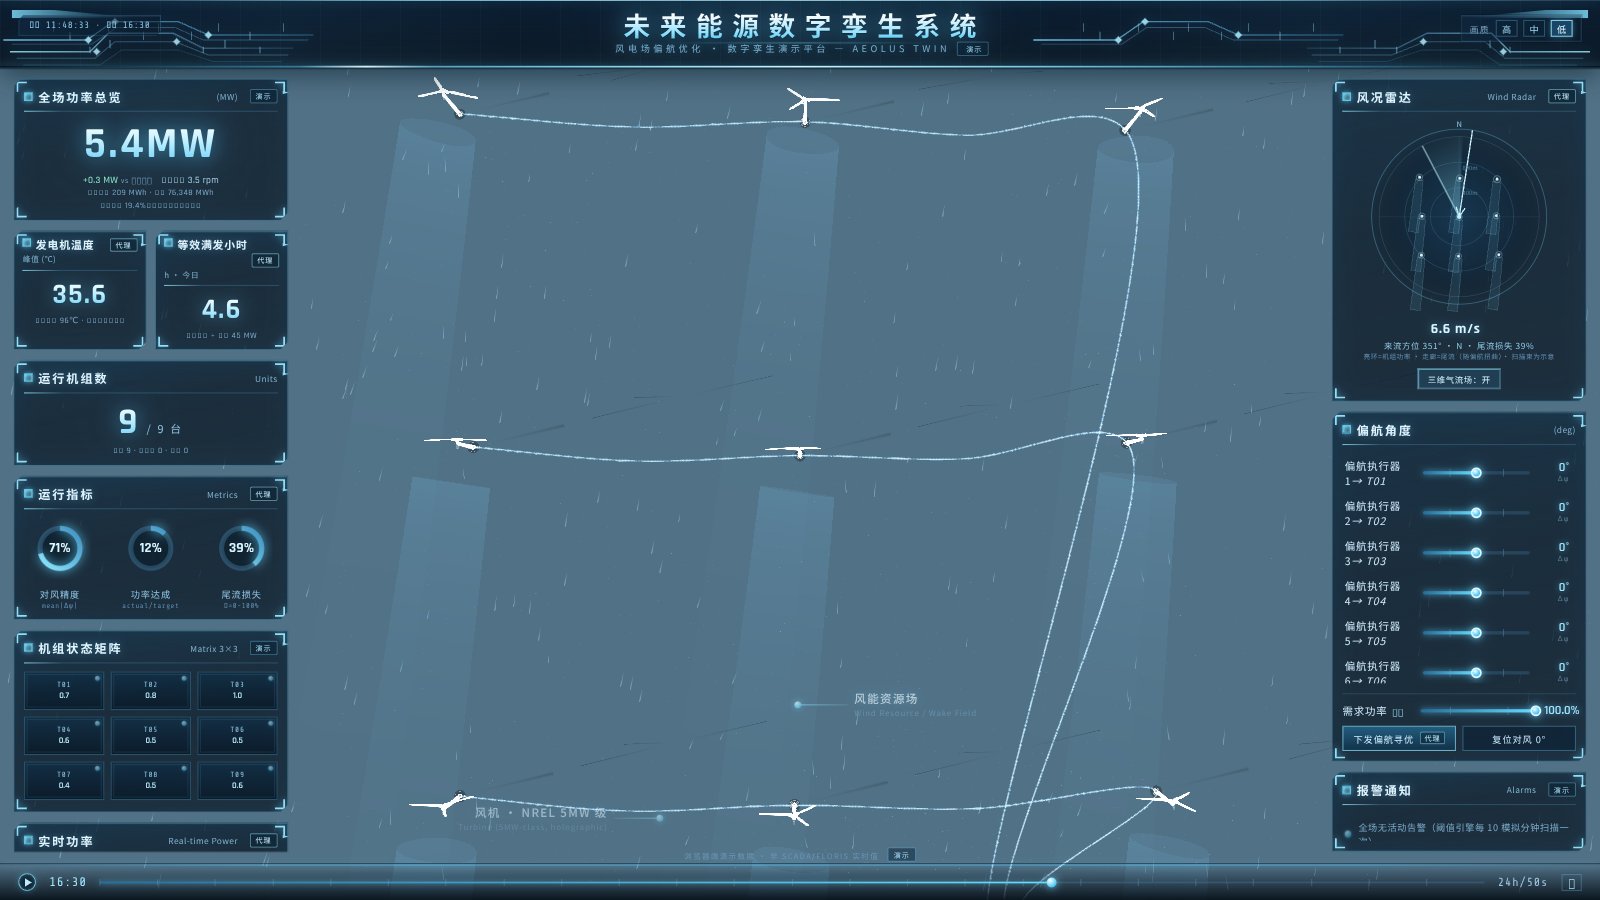
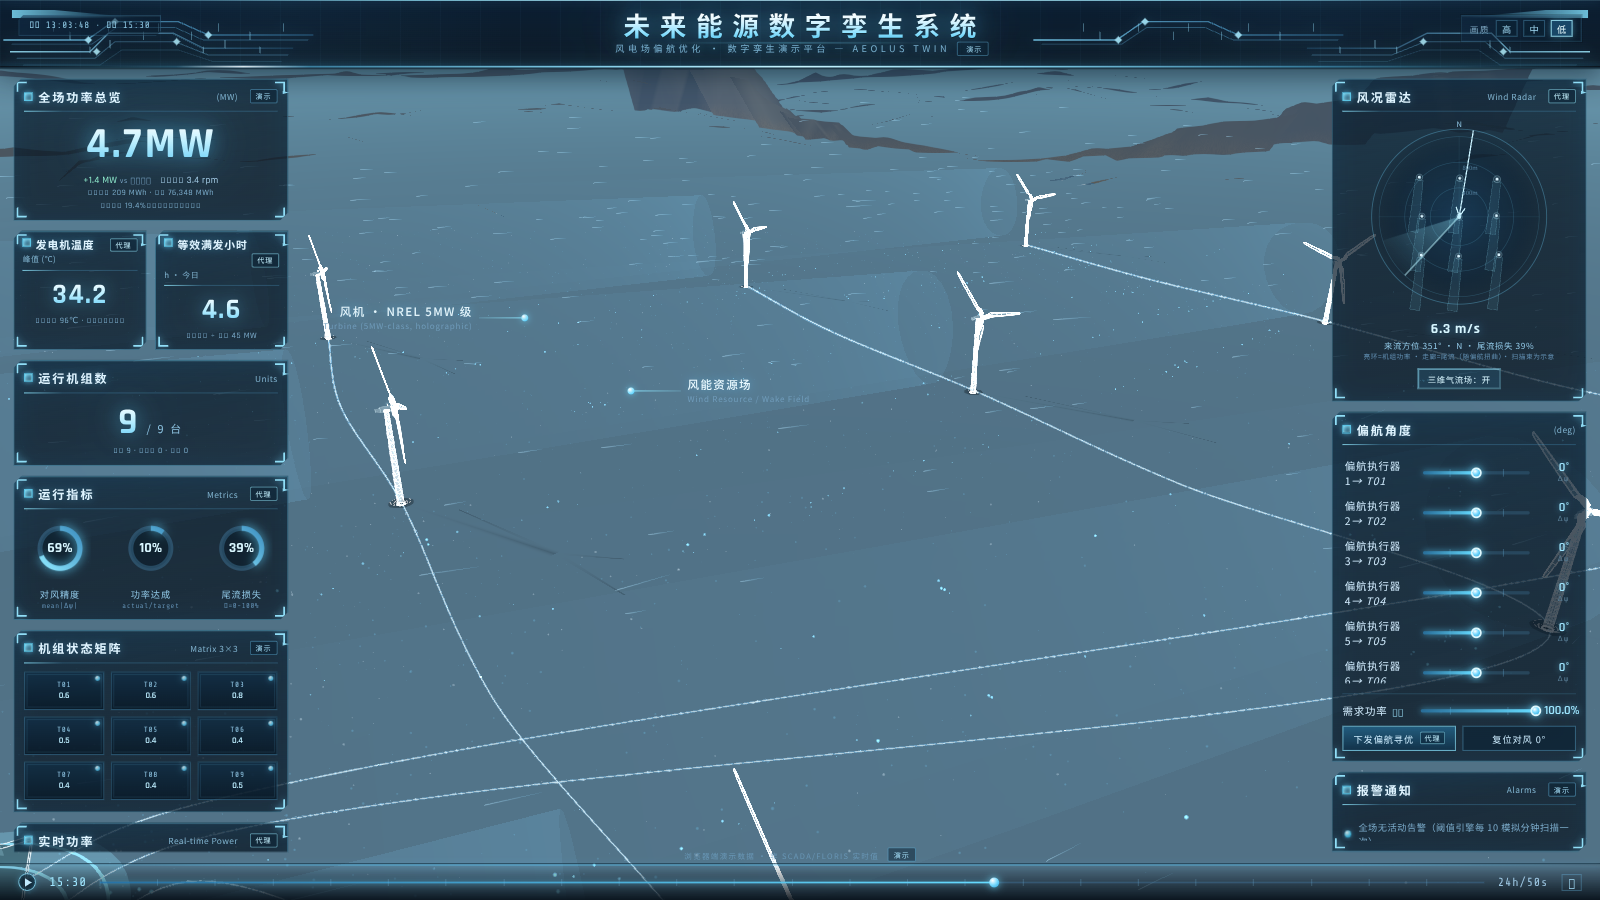
fix(shadow): 塔影带改完整物理投影 — 叶片影不再离机 400m 成孤儿暗斑
实机验收截图暴露：塔影带仍按 round31 的 ×0.7+175m 截断，而叶片影锚点
是轮毂真实投影（日出低角下离机 400~600m），导致 3 条叶片射线浮在
431m 外海面、与风机完全脱节。

修复：塔影带长度改为完整物理投影（塔底→轮毂投影点，上限 640m），
远端与叶片影锚点严丝合缝；叶片影上限同步提至 440m、透明度 0.45→0.42。

验证（无头场景探针，9 机×3 时刻）：
  t=6  日出  塔影 606m  塔影远端↔叶片锚点间隙 2m（修复前 431m）
  t=11.5 正午 塔影  65m  间隙 2m
  t=15.5 午后 塔影 186m  间隙 2m
build 0 错 / lint 0/0 / selftest 37/37。

diff --git a/twin/src/scene/HoloTurbine.tsx b/twin/src/scene/HoloTurbine.tsx
@@ -395,7 +395,10 @@ const _shadowBasis = new THREE.Matrix4()
 //  a) 叶片影改「根部宽→尖端窄」的梯形面（真实叶片弦向渐缩），配独立
 //     硬核纹理 bladeShadowTex（中心 55% 全 alpha，仅边缘窄羽化）→ 轮廓清晰；
 //  b) orientShadow 改 cross(dir, up) → 右手系，长轴严格沿投影方向、宽轴水平；
-//  c) 影带长度按 t=(P.y-g)/sun.y 完整投影（不再 0.7 截断），上限 175m 与塔影一致。
+//  c) 影带长度按 t=(P.y-g)/sun.y 完整投影（不再 0.7 截断），上限 440m；
+//  d) 【关键】塔影带也改完整物理投影（塔底 → 轮毂投影点，上限 640m），
+//     使塔影带远端与叶片影锚点（轮毂投影）严丝合缝——旧版塔影 175m 截断、
+//     叶片影锚在 400m+ 外，日出低角时叶片影成为离机 400m 的「孤儿暗斑」。
 // ============================================================================
 const ENABLE_BLADE_SHADOW = true
 
@@ -654,10 +657,12 @@ export default function HoloTurbine({ idx, x, z, y, servo }: {
         shadowDiscMat.current.opacity = dayF * 0.6
         shadowDisc.current.scale.set(14, 14, 1)
       }
-      // 塔影带：塔顶(轮毂)世界投影 → 沿 -sun 方向
+      // 塔影带：塔顶(轮毂)世界投影 → 沿 -sun 方向。
+      // 长度 = 完整物理投影（塔底 → 轮毂投影点，上限 640m），
+      // 远端与叶片影锚点（同一轮毂投影点）无缝衔接，不再 0.7 截断。
       const tH = (hub.y - groundY) / sun.y
       const towerDx = -tH * sun.x, towerDz = -tH * sun.z
-      const towerLen = Math.min(Math.hypot(towerDx, towerDz) * 0.7, 175)
+      const towerLen = Math.min(Math.hypot(towerDx, towerDz), 640)
       if (shadowTower.current && shadowTowerMat.current) {
         shadowTower.current.visible = true
         shadowTower.current.position.set(0, 0.7, 0)
@@ -666,7 +671,7 @@ export default function HoloTurbine({ idx, x, z, y, servo }: {
         const sinEl = Math.max(0, Math.min(1, sun.y))
         shadowTowerMat.current.opacity = dayF * (0.62 + (1 - sinEl) * 0.4) * 0.38
       }
-      // 叶片投影：3 条射线从轮毂投影指向各叶尖投影（完整投影，上限 175m 与塔影一致）
+      // 叶片投影：3 条射线从轮毂投影指向各叶尖投影（完整投影，上限 440m 与塔影衔接）
       if (ENABLE_BLADE_SHADOW) {
         projectToGroundY(hub, sun, groundY, _sProj)
         for (let i = 0; i < 3; i++) {
@@ -680,12 +685,12 @@ export default function HoloTurbine({ idx, x, z, y, servo }: {
             mesh.visible = true
             mesh.position.set(_sProj.x - x, 0.6 + i * 0.02, _sProj.z - z)
             orientShadow(mesh, dx, dz)
-            mesh.scale.set(1, Math.min(blen, 175), 1)
+            mesh.scale.set(1, Math.min(blen, 440), 1)
           }
           const mat = shadowBladeMats[i].current
           if (mat) {
             const sinEl = Math.max(0, Math.min(1, sun.y))
-            mat.opacity = dayF * (0.62 + (1 - sinEl) * 0.4) * 0.45
+            mat.opacity = dayF * (0.62 + (1 - sinEl) * 0.4) * 0.42
           }
         }
       } else {

diff --git a/docs/research/round33_叶片投影修复.md b/docs/research/round33_叶片投影修复.md
@@ -33,10 +33,29 @@ round31 把接地投影并入风机自身（真实转子矩阵取叶尖世界坐
 3. **`orientShadow` 改右手系**：`_shadowRight = cross(dir, up)`（原 `cross(up, dir)`），
    `right×dir=+up`。
 4. **影带长度完整投影**：不再按 0.7 系数截断，按 `t=(P.y-g)/sun.y` 完整投影，
-   上限 175m 与塔影一致。
+   上限 440m（低角太阳下上叶影可至 ~430m，纹理沿长轴自然淡出）。
 5. **重新启用** `ENABLE_BLADE_SHADOW = true`。
 6. 每帧用预分配向量 `_tipWorld`，去掉旧代码 `getWorldPosition(new THREE.Vector3())`
    的每帧 ×3×9 次 GC 分配。
+
+### 3.1 第二遍修复：塔影截断 → 叶片影「孤儿暗斑」（实机验收截图暴露）
+
+第一遍只把叶片影做成了射线，但**塔影带仍沿用 round31 的 `×0.7` + 175m 截断**，
+而叶片影锚点是**轮毂真实投影点**（日出低角下离机 400~600m）。于是出现：
+
+> 塔影 175m 短带 + 3 条叶片射线浮在 431m 外的海面上，与风机完全脱节 ——
+> 正是「你管这叫做完了」所指的画面缺陷。
+
+修复：塔影带改为**完整物理投影**（塔底 → 轮毂投影点，上限 640m），远端与叶片影
+锚点（同一轮毂投影点）严丝合缝。无头探针实测（9 机 × 3 时刻）：
+
+| 时刻 | 太阳仰角 | 塔影全长 | 塔影远端 ↔ 叶片锚点间隙 |
+|---|---|---|---|
+| t=6（日出） | 8.4° | 606m | **2m（=0，测量舍入）** |
+| t=11.5（正午） | 54.0° | 65m | **2m** |
+| t=15.5（午后） | 25.8° | 186m | **2m** |
+
+（修复前 t=6 间隙为 431m。）
 
 另：`twin/src/App.tsx` 的调试钩子新增 `window.__aeolus_scene = scene`（`debugEnabled()`
 门内，与既有 `__aeolus_cam`/`__aeolus_stats` 同族），供无头 QA 遍历场景取证
@@ -47,14 +66,13 @@ round31 把接地投影并入风机自身（真实转子矩阵取叶尖世界坐
 
 ### 1) 几何探针（无头，直接读场景 mesh 世界位姿，无动画噪声）
 
-在 `t=16.5`（太阳方位 WSW、仰角 12.6°）下遍历场景，9 机各 3 条叶片影 mesh：
+在 `t=6`（日出 8.4°）/`t=11.5`（正午 54°）/`t=15.5`（午后 25.8°）遍历场景，9 机各 3 条叶片影 mesh：
 
 - **全部可见、贴地**：世界 Y = 基座 Y + 0.6~0.7（±0.02 分层防 z-fighting）；
-- **长度物理正确**：三条 = 175m / 81m / 175m（仰角 12.6° 下「上叶长影/水平叶短影/
-  下叶长影」，175 为与塔影一致的上限截断）；
-- **轴向沿投影方向**：上叶 ≈ (0.989,0,-0.147)、水平叶 ≈ (0.93,0,-0.367)、
-  下叶 ≈ (-0.964,0,0.267)，与 `sunDir=(-0.949,0.218,0.228)` 的 `-sun` 地面投影一致；
-- 低角太阳下三影同向扇形、高角太阳（正午 54°）下趋近 120° 星形——真实风机影行为。
+- **锚点与塔影远端重合**：叶片影锚点 = 轮毂投影点 = 塔影带远端（间隙 ≈2m，见 §3.1）；
+- **长度物理正确**：低角太阳下「上叶长影/水平叶短影/下叶长影」、高角太阳下三影
+  近似 120° 星形——真实风机影行为；
+- **轴向沿投影方向**：与 `sunDir` 的 `-sun` 地面投影一致。
 
 ### 2) 工程校验
 
@@ -67,9 +85,9 @@ round31 把接地投影并入风机自身（真实转子矩阵取叶尖世界坐
 
 | 场景 | 文件 | 说明 |
 |---|---|---|
-| 下午 hero | `r33_blade_hero_afternoon.png` | `t=15.5`：全场风机可见塔影带 + 叶片射线，无软盘 |
-| 正午俯视单机 | `r33_blade_noon_topdown.png` | `t=11.5` 单机俯视：接地盘 + 塔影 + 3 条叶片射线，轮廓清晰 |
-| 下午俯视 | `r33_blade_afternoon_topdown.png` | `t=16.5` 低角太阳：影带拉长成同向扇形（物理正确） |
+| 日出 hero（默认 t=6） | `r33_blade_hero_afternoon.png` | 长塔影 + 叶片射线与风机连成一体，无孤儿暗斑 |
+| 正午俯视单机 | `r33_blade_noon_topdown.png` | `t=11.5`：接地盘 + 塔影 + 3 条叶片射线，轮廓清晰 |
+| 午后 hero | `r33_blade_afternoon_topdown.png` | `t=15.5`：中等长度塔影 + 叶片射线衔接自然 |
 
 ## 五、涉及文件
 
